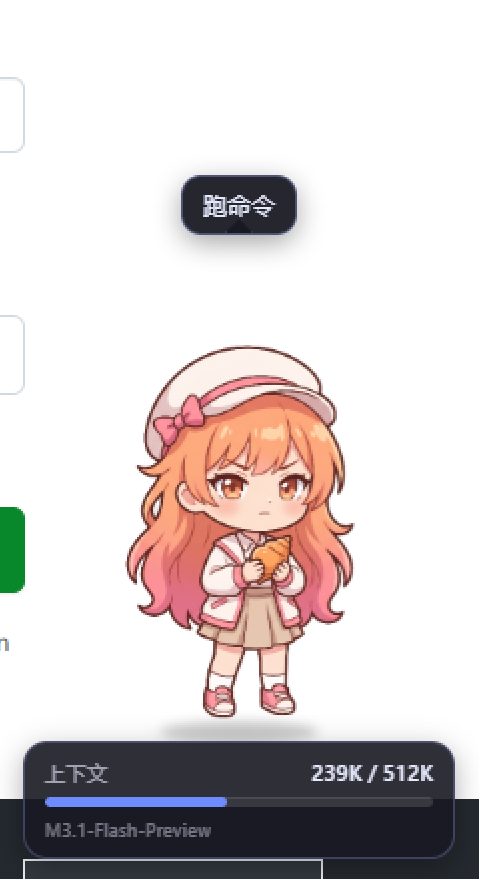
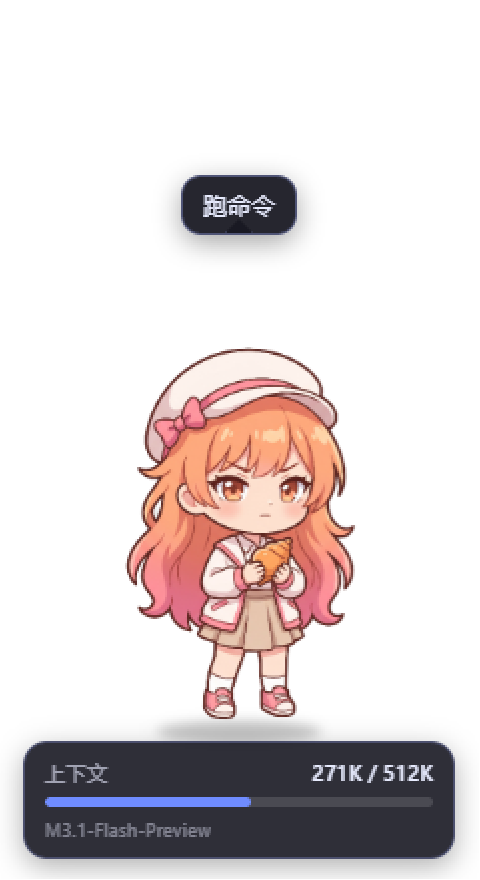
feat(deskpet): 支持仓库搬家到任意路径
原先 watcher 靠从 __dirname 逐层向上探测来定位运行时数据目录，
仓库恰好在数据目录内部时能命中（第 4 层），但一旦搬到别处
（如 D:/workspace/minimaxWorkspace/deskpet）就永远探不到，会静默
回退到 ~/.minimax 读到别的 profile 的数据。

新增 deskpet/data-dir.local.json 作为最高优先级的定位来源，
该文件被 gitignore（机器相关路径不进仓库），仓库搬到哪都能正确
解析。写入时必须 UTF-8 无 BOM，否则 JSON.parse 直接抛错。

优先级：data-dir.local.json > DESKPET_DATA_DIR/MINIMAX_DATA_DIR/
MAVIS_DATA_DIR > 向上逐层探测 > ~/.minimax

diff --git a/deskpet/watcher.js b/deskpet/watcher.js
@@ -17,10 +17,28 @@ const os = require('os');
 
 /**
  * 定位运行时数据目录。
- * 自定义安装目录（比如装在 D:\Data 下）时环境变量未必存在，
- * 所以除了 env，还从 __dirname 往上逐层探测，直到找到带 v2/sessions 的那层。
+ *
+ * 优先级：
+ *  1. data-dir.local.json（本地文件，不进 git；仓库搬到机器上任意位置时靠它兜底）
+ *  2. DESKPET_DATA_DIR / MINIMAX_DATA_DIR / MAVIS_DATA_DIR 环境变量
+ *  3. 从 __dirname 往上逐层探测带 v2/sessions 的那一层
+ *  4. ~/.minimax
+ *
+ * 第 3 步依赖仓库恰好在数据目录内部或附近，所以搬到别处后必须用第 1 步，
+ * 否则会静默回退到 ~/.minimax 读到别的 profile 的数据。
  */
 function resolveDataDir() {
+  try {
+    const cfg = JSON.parse(
+      fs.readFileSync(path.join(__dirname, 'data-dir.local.json'), 'utf8')
+    );
+    if (cfg && typeof cfg.dataDir === 'string' && fs.existsSync(cfg.dataDir)) {
+      return cfg.dataDir;
+    }
+  } catch {
+    /* 没有这个文件就走下面的探测 */
+  }
+
   const fromEnv = [
     process.env.DESKPET_DATA_DIR,
     process.env.MINIMAX_DATA_DIR,
